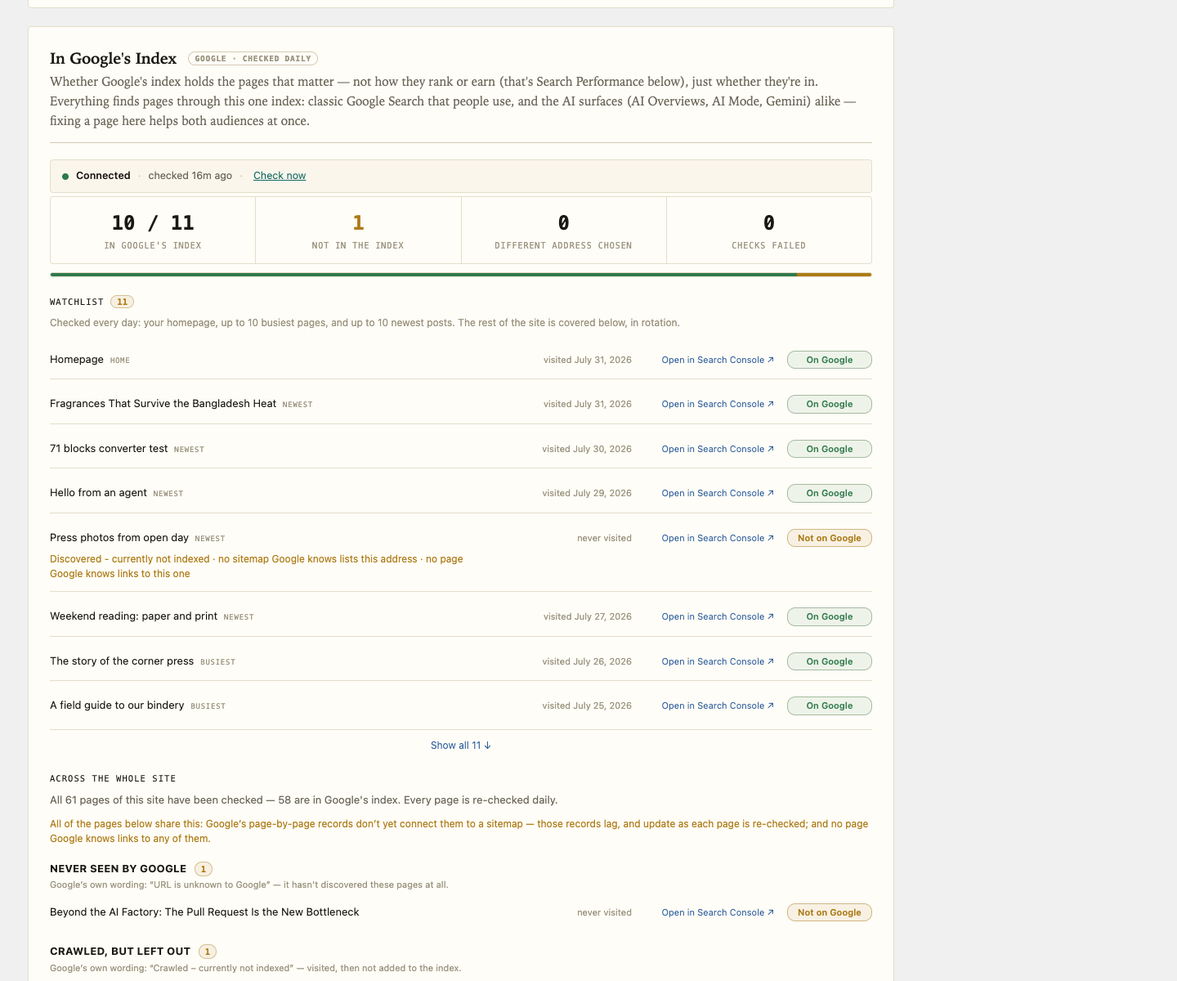
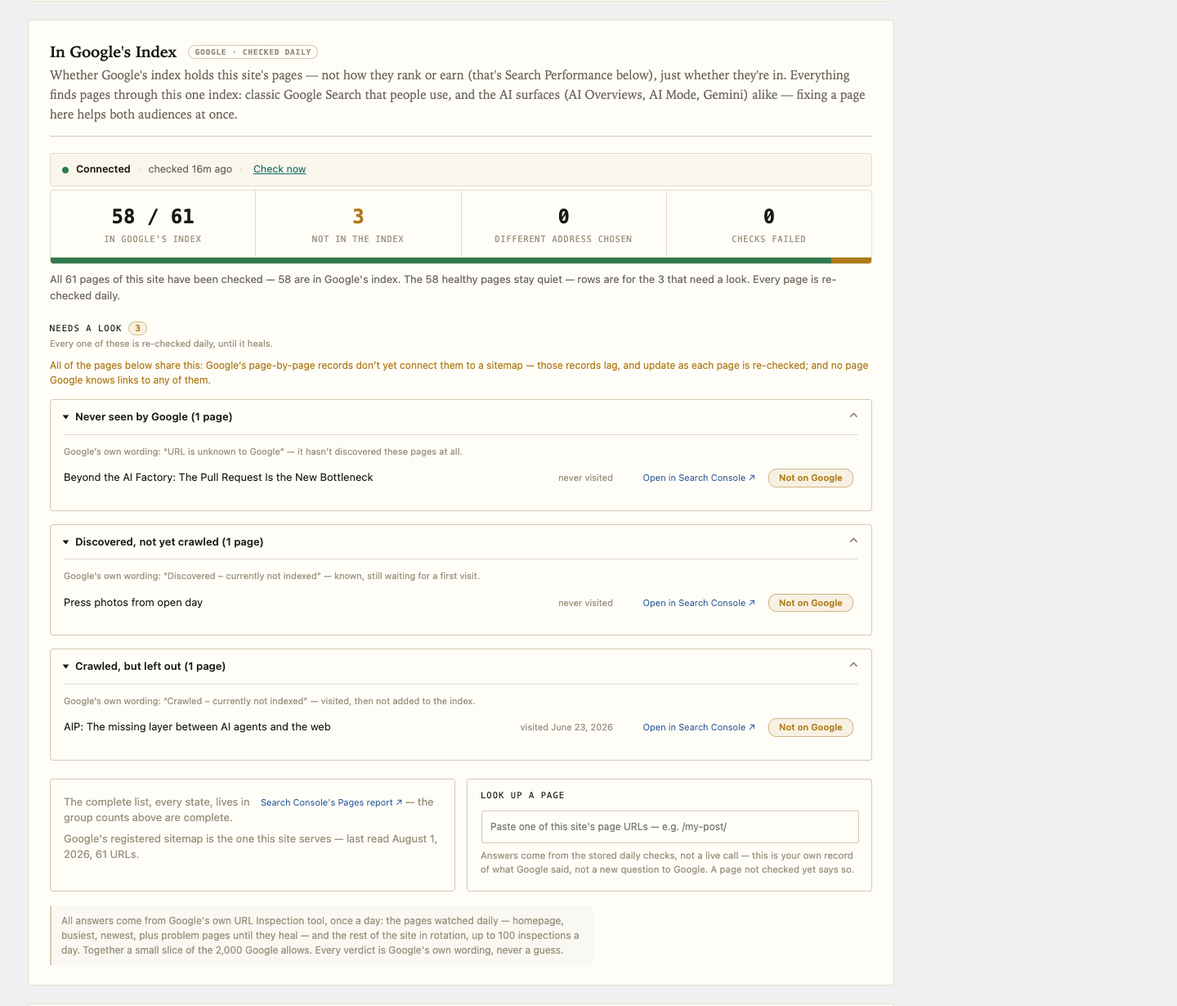
feat(google index): healthy pages are counted, never listed
The watchlist earned a section on the card because 1.33 shipped a
watchlist-only card, and nobody re-asked after the rotation and the
promoted tier landed. Asked three times why 21 evergreen green rows were
sitting there, the honest answer turned out to be: on any site the
rotation covers in a day — anything under ~100 pages — the watchlist
adds no coverage at all. It is a SCHEDULE (who gets asked about first
when a big site's budget is tight), and a schedule is not a display.

So the section is gone, along with the fold, five methods that only fed
it, and their CSS. What replaces it is one sentence, spoken only where
it changes something: under a day's rotation the card says every page is
re-checked daily and names no tiers; past that it names them, because
there your homepage really would wait a week for its turn. The group
sub-line got the same treatment — it stops advertising the 20-a-day
promoted allowance on sites where everything is daily anyway.

`rows` stays in the payload: an assistant asking "is my newest post
indexed yet?" still gets a direct answer over MCP. It is data, not a
section.

The card's rule is now absolute, with no exceptions: every row on screen
either needs your eyes or is news.

Narrow screens, from three reports:

- the index and Bing cards were sized with `@media`, but this app is a
  CSS container. WordPress's admin menu eats ~160px, so a 760px window
  already leaves those cards ~600px while a viewport query waits for the
[…]

diff --git a/resources/admin/components/GoogleIndexPanel.vue b/resources/admin/components/GoogleIndexPanel.vue
@@ -5,12 +5,14 @@
  * Bing hold?"; this one answers "is this site in Google's index?" — the index
  * AI Overviews, AI Mode and Gemini read.
  *
- * Rows are for what needs eyes: problems lead the card and join the daily
- * check until they heal, a page that heals announces "now on Google" instead
- * of vanishing, and the healthy watched pages fold into one line — a green
- * row that never changes carries no news. The headline counts speak for the
- * WHOLE SITE (walked daily in rotation slices), and the summary sentence does
- * the arithmetic out loud, so no healthy page is invisible — just quiet.
+ * Rows are for what needs eyes, with no exceptions: problems lead the card
+ * and join the daily check until they heal, and a page that heals announces
+ * "now on Google" instead of vanishing. Healthy pages never earn rows — not
+ * even the watched ones, because which pages get asked about first is a
+ * schedule, not a display; the summary sentence states that schedule in
+ * words where it changes anything. The headline counts speak for the WHOLE
+ * SITE, and that sentence does the arithmetic out loud, so no healthy page
+ * is invisible — just quiet.
  * Presence, not traffic (traffic lives one card down in Search Performance).
  *
  * Off state = one quiet pointer at Settings → Data sources. No form here.
@@ -95,26 +97,17 @@ export default {
         failed: Number(t.error) || 0,
       };
     },
-    // URLs currently ANNOUNCED in Now on Google — one row per page,
-    // card-wide: a page being announced up top must not also sit in the
-    // watched fold; when the announcement expires it drops back in.
-    healedSet() {
-      const set = new Set();
-      for (const r of this.site.healed || []) set.add(r.url);
-      return set;
-    },
-    // The watch rows the collapsed fold holds: everything not standing above
-    // as a problem or an announcement. Mirrors the server's is_problem() —
-    // a "not checked yet" row is unasked, not a problem, and folds with the
-    // healthy.
-    healthyRows() {
-      return this.rows.filter((r) => !this.isProblemRow(r) && !this.healedSet.has(r.url));
-    },
-    watchFoldLabel() {
-      const n = this.healthyRows.length;
-      const on = this.healthyRows.filter((r) => r.verdict === 'pass').length;
-      const tail = ` (${n} ${n === 1 ? 'page' : 'pages'})`;
-      return (on === n ? `All ${n} are on Google` : `${on} of ${n} are on Google`) + tail;
+    // What "Needs a look" can honestly promise about re-checking. With more
+    // problems than the daily allowance, "these are re-checked daily" would
+    // be an overclaim; on a site the rotation covers in a day, naming the
+    // allowance at all is noise.
+    problemsCadence() {
+      const w = this.watched;
+      if (this.site.cycleDays <= 1) return 'Every one of these is re-checked daily, until it heals.';
+      if (this.site.problemsTotal > w.promotedDaily) {
+        return `Up to ${w.promotedDaily} of these re-join the daily check each day — the ones asked about longest ago first — until they heal.`;
+      }
+      return 'Every one of these re-joins the daily check until it heals.';
     },
     // The whole-site summary does the arithmetic FOR the reader: quiet healthy
     // pages + the rows on screen must add back up to every page checked. An
@@ -130,18 +123,22 @@ export default {
       const tally = s.problemsTotal > 0
         ? `The ${quiet} healthy pages stay quiet — rows are for the ${s.problemsTotal} that need${s.problemsTotal === 1 ? 's' : ''} a look.`
         : 'Every checked page is healthy — nothing needs a row.';
-      // The cadence claim must survive the sick-site case: with more problems
-      // than the daily allowance, "problem pages are re-checked daily" would
-      // be an overclaim — say what actually happens instead.
+      // The cadence sentence is where the checking ORDER lives now that no
+      // section renders it: on a site the rotation covers in a day there is
+      // no order worth naming, and on a bigger one it is the whole point —
+      // your homepage does not wait a week for its turn.
+      const w = this.watched;
       let cadence;
       if (s.cycleDays <= 1) {
         cadence = 'Every page is re-checked daily.';
-      } else if (!s.problemsTotal) {
-        cadence = `Every page gets re-checked about every ${s.cycleDays} days.`;
-      } else if (s.problemsTotal > this.watched.promotedDaily) {
-        cadence = `Each day the ${this.watched.promotedDaily} problem pages waiting longest get re-checked; every page comes around about every ${s.cycleDays} days.`;
       } else {
-        cadence = `Problem pages are re-checked daily until they heal; the rest about every ${s.cycleDays} days.`;
+        const daily = [`your homepage, up to ${w.busiest} busiest pages and up to ${w.newest} newest posts`];
+        if (s.problemsTotal > w.promotedDaily) {
+          daily.push(`the ${w.promotedDaily} problem pages waiting longest`);
+        } else if (s.problemsTotal) {
+          daily.push('every page needing a look, until it heals');
+        }
+        cadence = `Checked every day: ${daily.join(', plus ')}. Every other page comes around about every ${s.cycleDays} days.`;
       }
       return `${head} ${tally} ${cadence}`;
     },
@@ -327,16 +324,6 @@ export default {
       if (r.verdict === 'pass') return 'is-ok';
       if (r.verdict === '') return 'is-dim';
       return 'is-warn';
-    },
-    reasonLabel(reason) {
-      // One word each, naming why the row is WATCHED — "new post" claimed the
-      // post was new; "newest" claims only its place on the list.
-      return { home: 'home', new: 'newest', busy: 'busiest' }[reason] || '';
-    },
-    // The client-side twin of the server's is_problem() — the fold must never
-    // hide a row the server would stand up as a problem.
-    isProblemRow(r) {
-      return !!(r.error || (r.verdict && r.verdict !== 'pass') || r.canonicalDiffers || r.robotsBlocked || r.noindex);
     },
     // The healed row's second line: what it healed FROM (the group label the
     // problem stood under), and since when it's been in.
@@ -624,10 +611,7 @@ export default {
             <span class="ar-perf__eyebrow ar-gidx__secname">Needs a look</span>
             <span class="ar-gidx__seccount">{{ site.problemsTotal }}</span>
           </div>
-          <p class="ar-gidx__gsub">
-            Problem pages join the daily check until they heal — up to
-            {{ watched.promotedDaily }} a day, the one asked about longest ago first.
-          </p>
+          <p class="ar-gidx__gsub">{{ problemsCadence }}</p>
           <!-- A clause true of EVERY problem row is a site fact — said once
                here, lag named, not repeated down the list. -->
           <p v-if="hoistLine" class="ar-gidx__note is-warn ar-gidx__hoist">{{ hoistLine }}</p>
@@ -690,36 +674,15 @@ export default {
           </details>
         </template>
 
-        <!-- The watched-daily fold: green rows carry no news, so they fold to
-             one line — the same doctrine that keeps healthy rotation pages as
-             a count. Expanding is one click; hiding a problem is impossible,
-             problems stand above. -->
-        <div class="ar-gidx__sec ar-gidx__siteeyebrow">
-          <span class="ar-perf__eyebrow ar-gidx__secname">Watched daily</span>
-          <span class="ar-gidx__seccount">{{ rows.length }}</span>
-        </div>
-        <p class="ar-gidx__scope">
-          Checked every day: your homepage, up to {{ watched.busiest }} busiest
-          pages, up to {{ watched.newest }} newest posts — and every problem
-          page above, up to {{ watched.promotedDaily }} a day, until it heals.
-        </p>
-        <details v-if="healthyRows.length" class="ar-opp__noiselist ar-gidx__grp">
-          <summary>{{ watchFoldLabel }}</summary>
-          <ul class="ar-gidx__list ar-gidx__scrollbox">
-            <li v-for="r in healthyRows" :key="r.url" class="ar-gidx__row">
-              <div class="ar-gidx__main">
-                <span class="ar-gidx__page">
-                  <a :href="r.url" target="_blank" rel="noopener" class="ar-gidx__title">{{ r.title }}</a>
-                  <span v-if="reasonLabel(r.reason)" class="ar-gidx__why">{{ reasonLabel(r.reason) }}</span>
-                </span>
-                <span class="ar-gidx__crawl">{{ r.lastCrawl ? `visited ${day(r.lastCrawl)}` : (r.error ? '' : 'never visited') }}</span>
-                <span class="ar-gidx__door"><a v-if="r.gscLink" class="ar-gidx__gsc" :href="r.gscLink" target="_blank" rel="noopener">Open in Search Console ↗</a></span>
-                <span class="ar-gidx__chip" :class="verdictClass(r)">{{ verdictLabel(r) }}</span>
-                <p v-if="rowNote(r)" class="ar-gidx__note" :class="r.error ? 'is-err' : 'is-warn'">{{ rowNote(r) }}</p>
-              </div>
-            </li>
-          </ul>
-        </details>
+        <!-- No "watched daily" section: which pages get asked about first is a
+             SCHEDULE, not a display. It only changes what a reader sees on a
+             site too big for one day's rotation — and there the cadence
+             sentence above says it in words. Rendering it as a list put a
+             standing block of never-changing green rows on the card, which is
+             the same noise the rotation's healthy pages were never allowed to
+             make. A watched page still surfaces the moment it has news: as a
+             problem above, as an announcement when it heals, or by URL in the
+             lookup. -->
 
         <!-- Two matched cards close the section: the site-level pointers
              (Search Console's complete archive, the registered-sitemap

diff --git a/resources/admin/components/AboutPanel.vue b/resources/admin/components/AboutPanel.vue
@@ -98,7 +98,7 @@ export default {
           actions: 'Connect Bing Webmaster with one read-only key — Agentimus prints the verification tag for you — and read index, crawl and error numbers day by day. Connect Google Search Console and the In Google’s Index card checks your key pages daily. Read Search Performance for your top searches and top pages, switching between Google and Bing when both are connected. Turn on citation checks inside the Citations tab, set the questions (or let AI suggest a spread), and track mentioned, linked, ranked against rivals.',
           facts: [
             { k: 'info', t: 'Search Performance and Search Opportunities (on Readiness) read the same stored numbers through opposite lenses: this screen answers “how am I doing?”, that one answers “what should I fix?”.' },
-            { k: 'info', t: 'The In Google’s Index card checks in two tiers, because Google has no bulk index report and allows 2,000 URL inspections a day: a daily watchlist (homepage, busiest pages, newest posts — every answer shown) plus a whole-site rotation of up to 100 pages a day. Small sites get every page checked daily; big ones get an honest stated cadence. Healthy rotation pages become one count — only problems become rows.' },
+            { k: 'info', t: 'The In Google’s Index card checks in three tiers, because Google has no bulk index report and allows 2,000 URL inspections a day: a daily watchlist (homepage, busiest pages, newest posts), every problem page until it heals, and a whole-site rotation of up to 100 pages a day. Small sites get every page checked daily; big ones get an honest stated cadence. Rows are only for what needs a look, or for a page that just healed — healthy pages are counted, never listed.' },
             { k: 'info', t: 'There is no “Request indexing” button anywhere, deliberately: Google’s Indexing API accepts only job-posting pages, and the Search Console button has no API. Every problem row links straight to that URL’s inspection in Search Console instead, where the real button is one click away.' },
             { k: 'warn', t: 'Google and Bing are never merged into one figure — they count different searchers, so a blended number would be one neither engine ever reported. The card names which one you are reading, and switches between them when both are connected.' },
             { k: 'info', t: 'Citation checks deliberately use their own keys, not WordPress’s shared AI provider: shared connectors hand back only answer text, and grading needs the list of cited sources each engine returns on its own API.' },
@@ -275,7 +275,7 @@ export default {
           lead: 'One always-on screen, two independent answers: can AI search find you, and do assistants actually cite you when asked. Each feature switches on inside its own tab, and each keeps its data on your server.',
           items: [
             { name: 'Found by AI Search', where: 'AI Visibility → AI Search · Settings → Data sources', desc: 'Bing’s index is what ChatGPT search reads today — Microsoft Copilot too — so “is Bing seeing you cleanly” is a measurable answer to “can AI search find me”. Connect Bing Webmaster Tools with one read-only key (Agentimus even prints the verification tag for you — no file upload, no DNS) and this tab shows how many pages sit in that index day by day, how many were crawled, crawl errors, and pages robots.txt closes off — with a warning pin when Bing’s view contradicts your own policy. Click any day’s bar for that day’s full crawl picture. Numbers are polled daily into your own database, so your history keeps growing where Bing’s own window ends. The card also carries Bing’s own record of your sitemap (registered or not, last read when, how many URLs) and, if you turn it on, the IndexNow switch — announcing each publish, edit or removal to search engines the moment it happens, sending only the changed addresses.', tag: 'Opt-in' },
-            { name: 'In Google’s Index', where: 'AI Visibility → AI Search · Settings → Data sources', desc: 'Google’s index is what AI Overviews, AI Mode and Gemini read — but Google publishes no bulk index report and allows 2,000 URL inspections a day, so a big site can’t be snapshot in one go, whatever a tool claims. Agentimus does the honest version in two tiers: a daily watchlist — your homepage, busiest pages, newest posts (where “is it indexed yet?” actually lives) — with every answer shown, plus a whole-site rotation of up to 100 pages a day, so a small site is fully covered every day and a big one on a stated cadence. Each answer is Google’s own wording: on Google or not, when Googlebot last visited, whether robots.txt or a noindex is in the way, whether Google chose a different canonical, fetch failures and soft 404s, whether any sitemap lists the page, and rich-result issues. Problems are grouped by state — never seen, discovered, crawled-but-left-out, wrong address — with Google’s own phrase quoted under each heading, and the counts stay true even when the rows are capped. Every checked row deep-links to that URL’s inspection in Search Console — one click from Request indexing — and a lookup box answers for any single page from the stored checks, no quota spent. The card also reports when Google last managed to read the sitemap you registered — a registration pointing at a moved address fails silently, and only Google’s own bookkeeping can see it. Uses the same read-only key as Search Performance; Check now runs the sweep on demand.', tag: 'Opt-in' },
+            { name: 'In Google’s Index', where: 'AI Visibility → AI Search · Settings → Data sources', desc: 'Google’s index is what AI Overviews, AI Mode and Gemini read — but Google publishes no bulk index report and allows 2,000 URL inspections a day, so a big site can’t be snapshot in one go, whatever a tool claims. Agentimus does the honest version in three tiers: a daily watchlist — your homepage, busiest pages, newest posts (where “is it indexed yet?” actually lives) — plus every page a check found unhealthy, which re-joins the daily check until it heals (up to 20 a day, the one asked about longest ago first), plus a whole-site rotation of up to 100 pages a day, so a small site is fully covered every day and a big one on a stated cadence. Each answer is Google’s own wording: on Google or not, when Googlebot last visited, whether robots.txt or a noindex is in the way, whether Google chose a different canonical, fetch failures and soft 404s, whether any sitemap lists the page, and rich-result issues. The card shows what needs a look, and nothing else: problems grouped by state — never seen, discovered, crawled-but-left-out, wrong address — with Google’s own phrase quoted under each heading and its true count beside it, however many pages it holds. A page that heals says so for about two days instead of quietly vanishing. Healthy pages are counted, never listed — including the ones checked daily, because which pages get asked about first is a schedule, not a list. Every row deep-links to that URL’s inspection in Search Console — one click from Request indexing — and a lookup box answers for any single page from the stored checks, no quota spent. The card also reports when Google last managed to read the sitemap you registered — a registration pointing at a moved address fails silently, and only Google’s own bookkeeping can see it. Uses the same read-only key as Search Performance; Check now runs the sweep on demand.', tag: 'Opt-in' },
             { name: 'Citation checks', where: 'AI Visibility → Citations', desc: 'Off by default, and switched on right inside the Citations tab — no hunting through Settings. Turned on, Agentimus asks ChatGPT, Perplexity, Gemini and Claude the questions you set — with your own keys — tracking whether each brand or product gets mentioned, linked and ranked against its rivals, and feeds the “Cited” rung of your score. Results and keys stay on your server (keys encrypted at rest). Everything saves as you change it; turning the checks off keeps your targets and history.', tag: 'Opt-in' },
             { name: 'Questions worth asking', where: 'AI Visibility → Citations → Settings', desc: 'Say what each tracked thing is — the category a buyer would shop in, like “WordPress SEO plugin” — and Agentimus suggests the questions a buyer actually types (“What is the best WordPress SEO plugin?”). If you’ve set up an AI provider in WordPress, “Suggest with AI” asks it for a wider spread. The good questions never mention your name: the point is to find out whether an assistant reaches for you when the buyer didn’t. Suggestions are only ever offered — you choose which to keep.' },
           ],

diff --git a/resources/admin/app.css b/resources/admin/app.css
@@ -1574,7 +1574,7 @@ td.ar-edge__n.is-bad { color: var(--ar-bad); font-weight: 600; }
    bars touch-wide and scrolls sideways instead — rtl scroller so it OPENS at
    the newest days, ltr inner so time still runs left → right (the dashboard
    charts' exact recipe). */
-@media (max-width: 600px) {
+@container (max-width: 600px) {
   .ar-bing__scrollwrap { overflow-x: auto; direction: rtl; scrollbar-width: thin; padding-bottom: 4px; }
   .ar-bing__scrollwrap > * { direction: ltr; min-width: 100%; width: max-content; }
   .ar-bing__trend { gap: 4px; }
@@ -1612,12 +1612,6 @@ td.ar-edge__n.is-bad { color: var(--ar-bad); font-weight: 600; }
 .ar-gidx__page { display: inline-flex; align-items: baseline; gap: 8px; min-width: 0; }
 .ar-gidx__title { font-size: 13px; color: var(--ar-ink); text-decoration: none; overflow-wrap: anywhere; }
 .ar-gidx__title:hover { text-decoration: underline; }
-/* Why this page is on the watchlist — the label that keeps a quiet new post
-   from reading like an odd pick. */
-.ar-gidx__why {
-  font-family: var(--ar-mono); font-size: 9px; letter-spacing: 0.08em;
-  text-transform: uppercase; color: var(--ar-ink-faint); white-space: nowrap;
-}
 .ar-gidx__crawl { font-size: 11px; color: var(--ar-ink-faint); white-space: nowrap; text-align: right; }
 /* A fixed minimum makes every chip the same width, so both chip edges align
    down the column. */
@@ -1639,7 +1633,6 @@ td.ar-edge__n.is-bad { color: var(--ar-bad); font-weight: 600; }
 /* The whole-site section under the watchlist. */
 .ar-gidx__siteeyebrow { margin-top: 24px; }
 .ar-gidx__siteline { margin: 8px 0 0; font-size: 13px; line-height: 1.55; color: var(--ar-ink-soft); }
-.ar-gidx__siteclear { margin: 8px 0 0; font-size: 12px; color: var(--ar-good); }
 /* Problem groups: the state is a real heading with its count — the
    Opportunities group grammar — so rows below stop repeating it. */
 .ar-gidx__group {
@@ -1652,7 +1645,6 @@ td.ar-edge__n.is-bad { color: var(--ar-bad); font-weight: 600; }
 }
 .ar-gidx__list--grouped { margin-top: 4px; }
 .ar-gidx__list--grouped .ar-gidx__row { padding: 9px 0; }
-.ar-gidx__more { margin: 6px 0 0; font-size: 12px; color: var(--ar-ink-faint); }
 .ar-gidx__hoist { margin-top: 10px; }
 .ar-gidx__gsc--cell { margin-left: 0; text-align: right; }
 /* Registration health: one quiet line, amber only when the owner should act. */
@@ -1676,17 +1668,6 @@ td.ar-edge__n.is-bad { color: var(--ar-bad); font-weight: 600; }
 /* Google's exact phrase, once per group — the footnote promises "Google's
    own wording", so the plain-words heading must show its source. */
 .ar-gidx__gsub { margin: 2px 0 0; font-size: 11px; color: var(--ar-ink-faint); }
-.ar-gidx__fold {
-  display: block; width: 100%; background: none; border: 0; border-top: 1px solid var(--ar-line);
-  margin-top: -1px; padding: 10px 0 2px; font: inherit; font-size: 12px; color: var(--ar-info);
-  cursor: pointer; text-align: center;
-}
-.ar-gidx__fold:hover { text-decoration: underline; }
-.ar-gidx__morebtn {
-  background: none; border: 0; padding: 6px 0 0; font: inherit; font-size: 12px;
-  color: var(--ar-info); cursor: pointer; text-align: left;
-}
-.ar-gidx__morebtn:hover { text-decoration: underline; }
 /* The page lookup: stored answers only — styled like the house inputs. */
 .ar-gidx__lookup { margin: 10px 0 0; }
 .ar-gidx__lookup input {
@@ -1801,7 +1782,10 @@ td.ar-edge__n.is-bad { color: var(--ar-bad); font-weight: 600; }
 .ar-gidx__footbox .ar-gidx__page { grid-column: 1 / -1; }
 .ar-gidx__footbox .ar-gidx__crawl { text-align: left; }
 .ar-gidx__footbox .ar-gidx__note { grid-column: 1 / -1; }
-@media (max-width: 600px) {
+/* CONTAINER, not viewport: the admin menu eats ~160px, so a 760px window
+   already leaves this card ~600px of room. A viewport media query kept the
+   four-lane row grid alive in a container far too narrow for it. */
+@container (max-width: 600px) {
   /* Tiles go 2×2 — four abreast crushed the labels into vertical shards. */
   .ar-gidx .ar-act-stats--4 { grid-template-columns: repeat(2, minmax(0, 1fr)); }
   .ar-gidx__footcols { grid-template-columns: 1fr; }
@@ -3497,6 +3481,25 @@ button.ar-wd-stat:focus-visible { outline: 2px solid var(--ar-accent); outline-o
   .ar-wd-endpoint-row { flex-direction: column; align-items: stretch; }
   .ar-wd-endpoint-row .ar-btn { width: 100%; }
   .ar-wd-canonical__path { font-size: 12px; }
+}
+
+/* Narrow: the rung header's tally ("21 graded · 8 set aside") never shrinks,
+   so beside it the blurb was squeezed into a ~200px gutter and even the title
+   wrapped mid-phrase. Give the tally its own line under the text, indented to
+   clear the status dot — the header keeps its reading order, and the sentence
+   gets the full width. Same rule for the set-aside header's note and its
+   Restore All. */
+@container (max-width: 500px) {
+  .ar-checkgroup__head { flex-wrap: wrap; }
+  .ar-checkgroup__count { flex: 1 0 100%; padding-left: 20px; text-align: left; }
+  .ar-setaside__head { flex-wrap: wrap; }
+  .ar-setaside__note { flex: 1 0 100%; }
+  .ar-setaside__restoreall { margin-left: 0; }
+  /* The left-out list is a TWO-column table (search + views) — it never needed
+     the five-column worklist's 520px floor, which forced a sideways scroll and
+     clipped its own second heading mid-word. */
+  .ar-opp__noiselist .ar-opp__queries { min-width: 0; }
+  .ar-opp__noiselist .ar-opp__queries th:not(:first-child) { white-space: normal; }
 }
 
 /* Readiness header carries FOUR actions — too many to sit beside the title on a

diff --git a/inc/Admin.php b/inc/Admin.php
@@ -658,12 +658,16 @@ final class Admin {
 					'text'  => 'Publishing or editing a post now clears its stale copies from Cloudflare\'s edge — the one cache no caching plugin can purge for you — along with the front page and the machine files agents read. The edge panel gains a Purge button for everything else. One extra permission on your token turns it on (Zone → Cache Purge → Purge); without it nothing changes, and the panel says why in words.',
 				),
 				array(
-					'title' => 'A blip is a pause, not a restart',
-					'text'  => 'One slow answer from Google used to end the daily index check, and the retry re-spent the whole watchlist\'s inspection budget. Now the check pauses exactly where it stopped and resumes on your next visit or the next daily run — nothing is re-inspected, nothing is lost, and the card says what happened in words.',
+					'title' => 'In Google\'s Index reports your site, not a watchlist',
+					'text'  => 'The numbers now cover every page checked, so a site with half its pages missing from Google says so in the first figure you read. The standing list of watched pages is gone — those green rows never changed, and which pages get asked about first is a schedule, which the card states in a sentence. What is left is what needs a look.',
 				),
 				array(
-					'title' => 'The page lookup answers cleanly',
-					'text'  => 'On the In Google\'s Index card, an answer now clears with the question that produced it, the sitemap-health line sits with the whole-site figures it describes, and the hint says what a lookup is: your own record of what Google said, not a new question to Google.',
+					'title' => 'A page Google left out is chased daily',
+					'text'  => 'Instead of waiting its turn in the whole-site rotation, any page Google has not indexed is re-checked every day until it gets in — up to 20 a day, the one waiting longest first. And when one finally gets in, the card says so for about two days, rather than the problem quietly disappearing.',
+				),
+				array(
+					'title' => 'A blip is a pause, not a restart',
+					'text'  => 'One slow answer from Google used to end the daily index check and demand another press of Check now. Now it rejoins the back of the line and the check carries on, reporting a failure only after three misses in a row — and a check you walk away from finishes on its own.',
 				),
 				array(
 					'title' => 'Doors on the robots and sitemap rows',

diff --git a/CHANGELOG.md b/CHANGELOG.md
@@ -4,6 +4,25 @@ The full release history. The readme.txt shipped to WordPress.org keeps only
 the most recent releases (its Changelog section has a 5,000-word cap); this
 file is the complete record.
 
+## 1.34.0
+* New: Clear Cloudflare's cache from Agentimus — publishing or editing a post now clears its stale copies from Cloudflare's edge (the one cache no caching plugin purges for you), along with the front page and the machine files agents read, and the edge panel gains a Purge button for everything else. Needs one extra permission on your token — Zone → Cache Purge → Purge; without it everything stays read-only, and the panel says so in words.
+* Improved: In Google's Index now reports your site, not a sample of it. The headline numbers cover every page checked — on a 200-page site with 100 pages out of the index, the first number you read says so — and the summary accounts for every page, so the healthy majority is quiet rather than unmentioned. The standing list of watched pages is gone: those green rows never changed, and which pages get asked about first is a schedule, which the card now states in a sentence instead of a list. What you see is what needs a look, or news.
+* New: a page that Google has left out is now re-checked every day until it gets in — up to 20 a day, the one waiting longest first, rather than waiting its turn in the whole-site rotation. And when one finally gets in, the card says so for about two days instead of the problem quietly disappearing, which is the moment you were waiting for. Every problem page keeps its own door into Search Console, however many there are.
+* Improved: a network blip during the index check no longer ends the run — a slow or missing answer from Google rejoins the back of the line and the check carries on, reporting a failure only after three misses in a row. The run resumes where it stopped either way, and finishes on its own if you close the tab mid-check, so one slow answer never costs a whole run's inspection budget or asks for another press of Check now. Google's inspection also gets the time it actually takes to answer.
+* Improved: the robots.txt check now opens the file as each engine last read it — a door to Google's robots report and Bing's robots tester, one per connected source, available any day on demand.
+* Fixed: the XML-sitemap readiness check still named the pre-1.33 legacy address while robots.txt advertised the standard one — it now names, and opens, the sitemap actually served.
+* Improved: the transient "robots.txt changed" note no longer renders as a readiness row — a notice among checks read as a failing check and changed the report's count. The readiness count stays fixed now; the change itself still reaches you in the weekly email.
+* Improved: the automatic Cloudflare purge is polite about everything — a switch on the Cloudflare card turns it off, a permission refusal stands it down silently until a reconnect or a successful manual purge re-arms it, and where the server supports it the save's response is closed before the edge is called, so publishing never waits on Cloudflare.
+* Fixed: the page lookup on In Google's Index kept showing its previous answer after the box was cleared or edited — an answer now clears with the question that produced it.
+* Fixed: the sitemap-health line sat below the page lookup, where it read as a fact about the page you had just looked up. It now sits with the whole-site section it describes.
+* Improved: the lookup hint says what the answer is, not only what it isn't — your own record of what Google said, rather than a new question to Google.
+* Improved: the markdown edition's "never store this" cache instruction now speaks nginx's own dialect too, closing the one cache layer that ignores the standard headers.
+* Improved: Search Opportunities cards for pages with no post behind them — the homepage on many sites, an archive — can now be set aside like every other card. They are held by address, listed in the same visible set-aside list, restorable in a click, and the card says why it offers no editor buttons.
+* Improved: a search card's readability flag no longer waits for the page to be recently edited — every card's page is graded the moment the card renders, so "Also in Optimize" and its Check readability door appear the first time you see the card.
+* Improved: the search worklist's fine print now names its terms — which title it means (the SEO title in the "Search & AI" box, or the post title when that field is empty), that set-aside covers both engines, and that a fixed page's card clears when later reports improve, not when you press Save.
+* New: IndexNow — publishing, editing or removing a post can announce the changed address to search engines the moment it happens: one standard ping that Bing (the index ChatGPT search and Copilot read), Yandex and other participating engines all listen to. Off by default, one switch on the Bing card; only the changed addresses are sent, and a key file at /<key>.txt proves the pings are yours. Works for every public post type — and content that lives outside posts (a plugin's own catalog tables) can join with one line: do_action( 'agentimus_announce_url', $url ).
+* New: the Found by AI Search card answers "does Bing know my sitemap?" — Bing's own record of your registered sitemaps, when it last read them and how many URLs they carried, in Bing's own dates. The IndexNow status gets its own honest line there too.
+
 ## 1.33.0
 * New: Classic search, measured — Search Performance and Search Opportunities screens for Bing Webmaster Tools and Google Search Console: what people searched, how often you appeared, and which pages sit one improvement from page one. Every number is the engine's own, and automated probe traffic is named, never blended in.
 * New: In Google's Index — a daily watchlist plus a whole-site rotation through Google's URL Inspection: every verdict in Google's own words, problems grouped with Search Console deep links, any page's answer one lookup away — plus week-on-week trend, Google Discover, and the health of the sitemap you registered.
